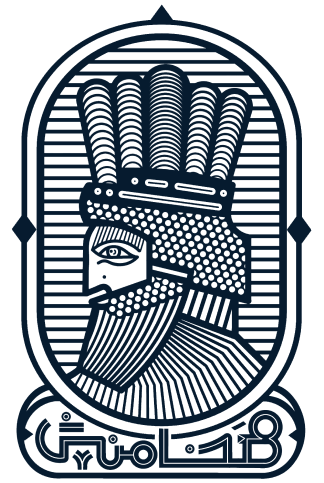
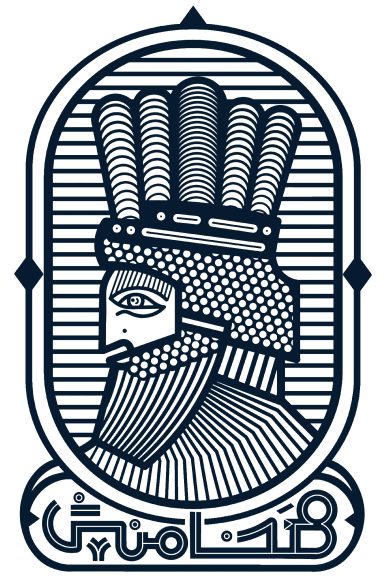
fix: edit image url on bio card

diff --git a/app/bio/page.tsx b/app/bio/page.tsx
@@ -94,7 +94,7 @@ const page = () => {
               author={"Cameron Williamson"}
               publish={"Sep 16,2023"}
               avatar={"/images/avatar/1.png"}
-              cover={""}
+              cover={"/images/bio/hakhamanesh.png"}
             />
             <BioCardFullWidth
               readingTime={"3"}
@@ -105,7 +105,7 @@ const page = () => {
               author={"Cameron Williamson"}
               publish={"Sep 16,2023"}
               avatar={"/images/avatar/1.png"}
-              cover={""}
+              cover={"/images/bio/hakhamanesh.png"}
             />
             <BioCardFullWidth
               readingTime={"3"}
@@ -116,7 +116,7 @@ const page = () => {
               author={"Cameron Williamson"}
               publish={"Sep 16,2023"}
               avatar={"/images/avatar/1.png"}
-              cover={""}
+              cover={"/images/bio/hakhamanesh.png"}
             />
             <BioCardFullWidth
               readingTime={"3"}
@@ -127,7 +127,7 @@ const page = () => {
               author={"Cameron Williamson"}
               publish={"Sep 16,2023"}
               avatar={"/images/avatar/1.png"}
-              cover={""}
+              cover={"/images/bio/hakhamanesh.png"}
             />
             <BioCardFullWidth
               readingTime={"3"}
@@ -138,7 +138,7 @@ const page = () => {
               author={"Cameron Williamson"}
               publish={"Sep 16,2023"}
               avatar={"/images/avatar/1.png"}
-              cover={""}
+              cover={"/images/bio/hakhamanesh.png"}
             />
           </div>
         </div>

diff --git a/components/Bio/BioCardFullWidth.tsx b/components/Bio/BioCardFullWidth.tsx
@@ -21,7 +21,7 @@ const BioCardFullWidth: React.FC<BioCardFullWidthProps> = (props) => {
     >
       <div
         className=" w-full lg:w-1/5 h-full flex items-center justify-center order-2 lg:order-1 p-5 lg:p-0  border rounded-3xl border-white-shade-4 group-hover:border-white-shade-18 transition-all duration-300">
-          <Image src={"/images/bio/hakhamanesh.png"} width={100} height={100} alt=""/>
+          <Image src={props.cover} width={100} height={100} alt=""/>
         </div>
       <div className="w-full lg:w-4/5 flex flex-col order-1 lg:order-2 gap-y-4">
         <h2 className="text-blacl text-xl font-outfit font-medium text-black">

diff --git a/app/globals.css b/app/globals.css
@@ -451,14 +451,7 @@ input:-webkit-autofill:active {
   width: 41px;
 }
 
-.bg-animate {
-  background-size: cover;
-  animation-name: heroanimation;
-  animation-delay: 2s;
-  animation-duration: 10s;
-  transition: all 1s ease-in-out;
 
-}
 
 @keyframes heroanimation {
   0% {
